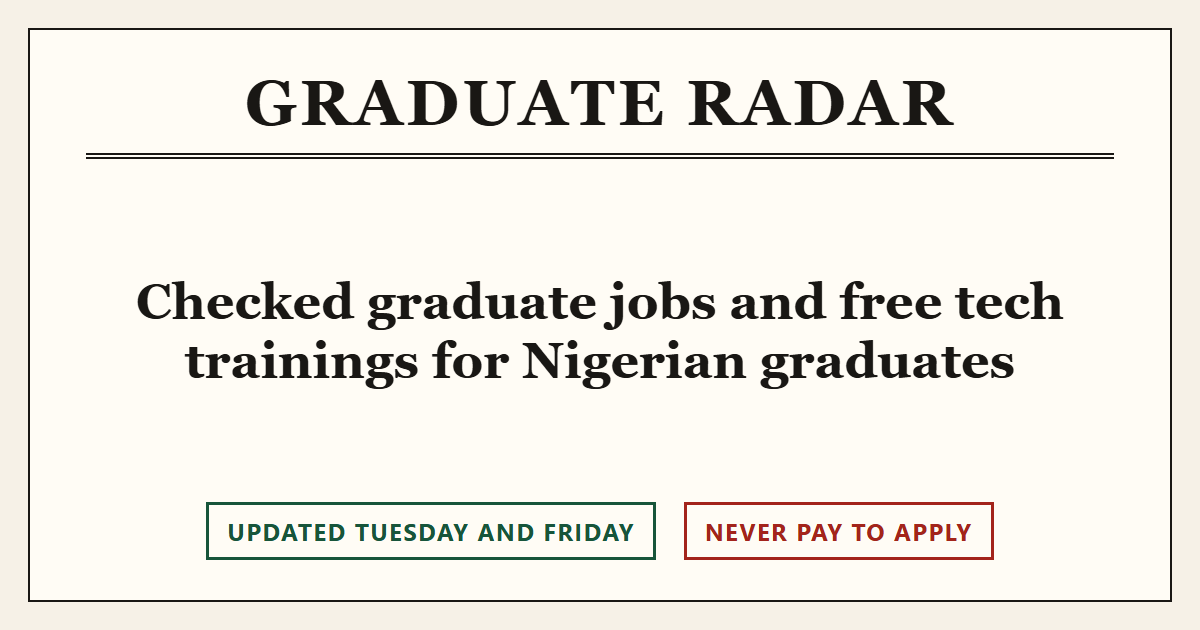
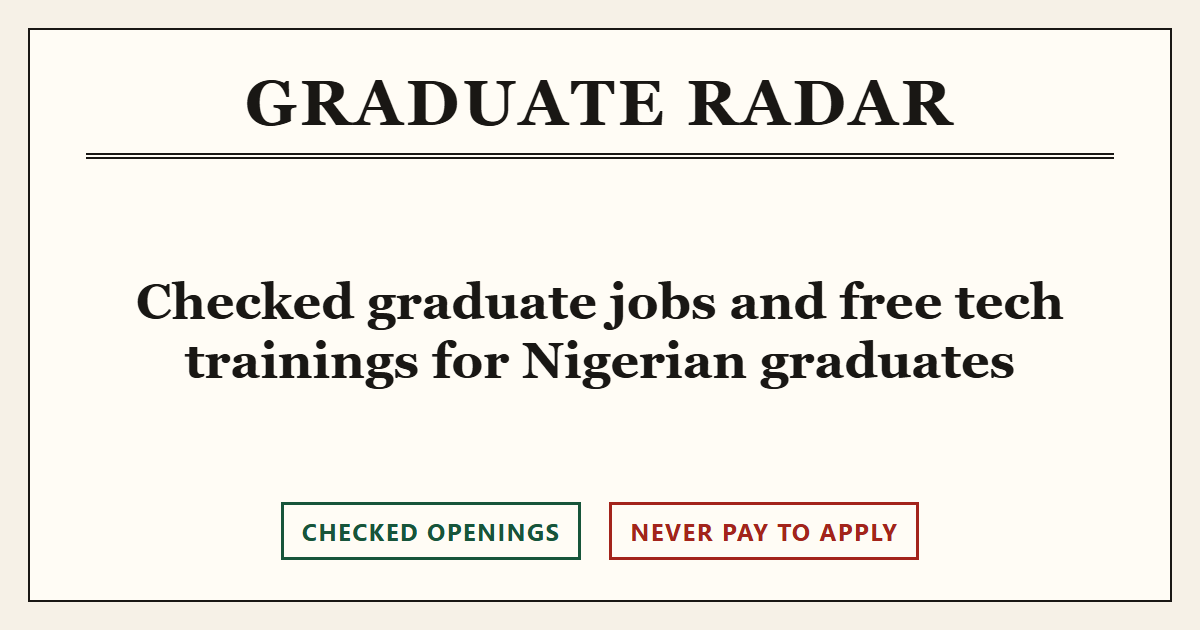
feat(copy): remove the update schedule, add the schedule check (GR-011)

Changed region(s): [[0.1542, 0.7841, 0.8325, 0.9048]]

diff --git a/tests/check-schedule.test.ts b/tests/check-schedule.test.ts
@@ -1,0 +1,89 @@
+// GR-011: the site and its docs must not promise an update schedule (owner decision,
+// 15 Nov 2026), so a move to a daily sweep needs no copy change.
+import { mkdirSync, mkdtempSync, rmSync, writeFileSync } from 'node:fs';
+import { tmpdir } from 'node:os';
+import { join } from 'node:path';
+import { afterEach, beforeEach, describe, expect, it } from 'vitest';
+import { findScheduleClaims } from '../scripts/check-schedule.ts';
+
+let root: string;
+
+beforeEach(() => {
+  root = mkdtempSync(join(tmpdir(), 'schedule-check-'));
+});
+
+afterEach(() => {
+  rmSync(root, { recursive: true, force: true });
+});
+
+function file(path: string, text: string) {
+  const full = join(root, path);
+  mkdirSync(join(full, '..'), { recursive: true });
+  writeFileSync(full, text);
+}
+
+describe('findScheduleClaims: what must be refused', () => {
+  it('fails "Updated every Tuesday and Friday" in a component, with file and line', () => {
+    file('src/components/Hero.astro', '<p>\n  Updated every Tuesday and Friday.\n</p>');
+    expect(findScheduleClaims(root)).toEqual([{ file: 'src/components/Hero.astro', line: 2 }]);
+  });
+
+  it('fails "Tue/Fri" and "Tue and Fri" in the README', () => {
+    file('README.md', 'Claude sweep (Tue/Fri 05:41)\nRuns Tue and Fri.');
+    expect(findScheduleClaims(root)).toEqual([
+      { file: 'README.md', line: 1 },
+      { file: 'README.md', line: 2 },
+    ]);
+  });
+
+  it('fails "twice a week" in the spec', () => {
+    file('docs/build-spec.md', 'The sheet changes twice a week.');
+    expect(findScheduleClaims(root)).toEqual([{ file: 'docs/build-spec.md', line: 1 }]);
+  });
+
+  it('fails a schedule line inside a launch draft', () => {
+    file('docs/launch.md', '```text\nNew openings are added every Friday.\n```');
+    expect(findScheduleClaims(root)).toEqual([{ file: 'docs/launch.md', line: 2 }]);
+  });
+
+  it('fails a claim split across a line break in a component', () => {
+    file('src/components/EmptyState.astro', 'We add openings every Tuesday and\n    Friday.');
+    expect(findScheduleClaims(root)).toEqual([
+      { file: 'src/components/EmptyState.astro', line: 1 },
+    ]);
+  });
+
+  it('fails the stamp on the sharing image source', () => {
+    file('scripts/og/og.html', '<span class="stamp">Updated Tuesday and Friday</span>');
+    expect(findScheduleClaims(root)).toEqual([{ file: 'scripts/og/og.html', line: 1 }]);
+  });
+});
+
+describe('findScheduleClaims: what is allowed', () => {
+  it('does not fail a weekday on its own', () => {
+    file('src/pages/about.astro', '<p>Interviews hold on Friday. Sat and fried rice.</p>');
+    expect(findScheduleClaims(root)).toEqual([]);
+  });
+
+  it('skips history and other docs: done.md, BACKLOG.md and docs not in scope', () => {
+    file('docs/done.md', 'Updated every Tuesday and Friday.');
+    file('BACKLOG.md', 'Updated every Tuesday and Friday.');
+    file('docs/infra-capacity.md', 'The sweep runs twice a week.');
+    expect(findScheduleClaims(root)).toEqual([]);
+  });
+
+  it('passes copy with no schedule', () => {
+    file(
+      'src/components/Footer.astro',
+      '<p>We add new openings and mark closed ones as we find them.</p>',
+    );
+    file('README.md', 'Claude sweep (scheduled) -> Google Sheet');
+    expect(findScheduleClaims(root)).toEqual([]);
+  });
+});
+
+describe('the repo', () => {
+  it('has no schedule claim in the site, the launch drafts, README or spec', () => {
+    expect(findScheduleClaims(join(import.meta.dirname, '..'))).toEqual([]);
+  });
+});

diff --git a/scripts/check-schedule.ts b/scripts/check-schedule.ts
@@ -1,0 +1,66 @@
+// Fails when the site or its docs promise an update schedule ("every Tuesday", "Tue/Fri",
+// "twice a week"). Owner decision (15 Nov 2026): no schedule anywhere, so the sweep can
+// move to daily without a copy change. A weekday on its own is fine.
+// Scans repo copy only, never dist/: listing notes from the sheet may name a day and
+// must never fail a daily build.
+// Run: node scripts/check-schedule.ts   (part of npm run lint)
+import { existsSync, lstatSync, readdirSync, readFileSync } from 'node:fs';
+import { join, relative, sep } from 'node:path';
+import { fileURLToPath } from 'node:url';
+
+export interface ScheduleFinding {
+  file: string;
+  line: number;
+}
+
+const SCAN_DIRS = ['src', 'scripts/og', 'public'];
+const SCAN_FILES = ['README.md', 'docs/build-spec.md', 'docs/launch.md'];
+const TEXT_EXT = /\.(astro|ts|tsx|js|mjs|json|md|css|html|txt|xml|svg)$/i;
+
+const DAY =
+  '(?:monday|mon|tuesday|tues|tue|wednesday|wed|thursday|thurs|thu|friday|fri|saturday|sat|sunday|sun)';
+const CLAIMS = [
+  new RegExp(`\\bevery\\s+${DAY}\\b`, 'gi'),
+  new RegExp(`\\b${DAY}s?\\s*(?:and|&|/)\\s*${DAY}s?\\b`, 'gi'),
+  /\btwice\s+(?:a\s+week|weekly)\b/gi,
+];
+
+function walk(dir: string, out: string[]) {
+  if (!existsSync(dir)) return;
+  for (const name of readdirSync(dir)) {
+    const full = join(dir, name);
+    const st = lstatSync(full);
+    if (st.isDirectory()) walk(full, out);
+    else if (st.isFile() && TEXT_EXT.test(name)) out.push(full);
+  }
+}
+
+export function findScheduleClaims(root: string): ScheduleFinding[] {
+  const files: string[] = [];
+  for (const dir of SCAN_DIRS) walk(join(root, dir), files);
+  for (const f of SCAN_FILES) if (existsSync(join(root, f))) files.push(join(root, f));
+
+  const findings: ScheduleFinding[] = [];
+  for (const full of files) {
+    const rel = relative(root, full).split(sep).join('/');
+    const text = readFileSync(full, 'utf8');
+    const lines = new Set<number>();
+    // Whole-file matching, so a claim wrapped over two lines is still caught; the
+    // finding names the line where it starts.
+    for (const re of CLAIMS)
+      for (const m of text.matchAll(re)) lines.add(text.slice(0, m.index).split('\n').length);
+    for (const line of [...lines].sort((a, b) => a - b)) findings.push({ file: rel, line });
+  }
+  return findings.sort((a, b) => a.file.localeCompare(b.file) || a.line - b.line);
+}
+
+if (process.argv[1] && fileURLToPath(import.meta.url) === process.argv[1]) {
+  const findings = findScheduleClaims(process.cwd());
+  for (const f of findings)
+    console.error(`${f.file}:${f.line}: update schedule claim (owner decision: no schedule)`);
+  if (findings.length > 0) {
+    console.error(`Schedule check failed: ${findings.length} finding(s).`);
+    process.exit(1);
+  }
+  console.log('Schedule check passed.');
+}

diff --git a/scripts/og/og.html b/scripts/og/og.html
@@ -71,7 +71,7 @@
       <div class="mast">Graduate Radar</div>
       <p class="head">Checked graduate jobs and free tech trainings for Nigerian graduates</p>
       <div class="stamps">
-        <span class="stamp green">Updated Tuesday and Friday</span>
+        <span class="stamp green">Checked openings</span>
         <span class="stamp red">Never pay to apply</span>
       </div>
     </div>

diff --git a/docs/build-spec.md b/docs/build-spec.md
@@ -16,7 +16,7 @@ Graduate Radar is a free, checked directory of opportunities for Nigerian gradua
 It already runs on a Google Sheet that is kept up to date automatically:
 
 - **Spreadsheet ID:** `1dRl1vgvRixtVZJIkXbd6iNFpeBjgzKkaz1L-tp8k6yo` (time zone Africa/Lagos)
-- **A Claude scheduled task ("Graduate Radar sweep")** runs every Tuesday and Friday at 05:41 Lagos time. It finds new openings, checks them for scams, writes them to the sheet, marks closed ones, and logs each run.
+- **A Claude scheduled task ("Graduate Radar sweep")** runs on a schedule (set in the task itself, not repeated here). It finds new openings, checks them for scams, writes them to the sheet, marks closed ones, and logs each run.
 - **Public tabs:** `Start here`, `Jobs`, `Trainings & Scholarships`.
 - **Private tabs (must never reach the website):** `Postgrad Scholarships`, `Calendar`, `Review`, `Sources`, `Settings`, `Log`.
 
@@ -50,7 +50,7 @@ The sheet is also published with Google's "Publish to web", but that view is sta
 ## 4. Architecture
 
 ```
-Claude sweep (Tue/Fri 05:41) ──► Google Sheet (database, unchanged)
+Claude sweep (scheduled)     ──► Google Sheet (database, unchanged)
                                      │
                                      ▼
                  Apps Script web app "feed"  ── JSON of public listings only
@@ -74,7 +74,7 @@ Claude sweep (Tue/Fri 05:41) ──► Google Sheet (database, unchanged)
 | Styling | Plain CSS with design tokens (CSS custom properties), scoped Astro component styles | Tokens make the design system portable to future products; no build-time CSS framework to learn or upgrade. | Tailwind: fine, but tokens-in-CSS keeps the design system explicit and framework-free. If Claude Code strongly prefers Tailwind, map tokens into its theme instead. |
 | Interactivity | Vanilla TypeScript (or Preact island if it clearly simplifies) for filters; Fuse.js for fuzzy search | A few hundred rows, so filtering in the browser is instant and needs no server. | Server search (Algolia etc.): overkill, adds cost and accounts. |
 | Hosting | Cloudflare Pages (free plan), on a `*.pages.dev` address for launch | Free with unmetered bandwidth, global CDN including a Lagos location, deploy hooks, preview deploys per branch. Builds count against the account's 500 builds a month, shared with Aimery (see `docs/infra-capacity.md`). | Workers static assets: third-party sources say Cloudflare now points new projects there, but it uses `*.workers.dev` and we found no documented deploy hook for Workers Builds. A plain static site can move later by hand. Vercel/Netlify: also fine; Cloudflare chosen for bandwidth terms and Nigeria latency. |
-| Freshness | Daily rebuild via deploy hook, plus deadline logic in the browser | The sheet changes twice a week, but deadlines pass daily. A daily 07:30 rebuild catches sweep results and drops expired listings; browser-side date checks keep "Closing soon"/"Closed" correct even between builds. | Fetching the feed live on every visit: slower first paint, depends on Apps Script uptime and quotas, worse SEO. |
+| Freshness | Daily rebuild via deploy hook, plus deadline logic in the browser | The sheet changes when the sweep runs, but deadlines pass daily. A daily 07:30 rebuild catches sweep results and drops expired listings; browser-side date checks keep "Closing soon"/"Closed" correct even between builds. | Fetching the feed live on every visit: slower first paint, depends on Apps Script uptime and quotas, worse SEO. |
 | Analytics | Cloudflare Web Analytics only (page views, cookie-free) | Simple and low-maintenance; same Cloudflare account, nothing new to run; no cookies, so the privacy note stays one line. Detail-page views show which listings people open. | Mixpanel: tracks Apply clicks, filters and shares, but the browser SDK eats much of the JS budget and is one more service to maintain. GA4: heavier script, cookie banner concerns. |
 | Code hosting | Public GitHub repo `heisX3N0/graduate-radar-web` | Cloudflare Pages builds from GitHub automatically. Public repos use no Actions minutes (the account's 2,000 a month are shared and near 70%). Everything in the repo is already public data; the feed URL is a Cloudflare build setting, never committed. | Private repo: CI would draw on the shared Actions minutes. |
 
@@ -177,11 +177,11 @@ Note: the sheet is on a gmail.com account (owner, 15 Nov 2026), so no Workspace 
 
 | Route | Purpose | Key content |
 |---|---|---|
-| `/` | Jobs home | Short hero (one line: what this is, "updated every Tue & Fri", last updated date). "Closing this week" strip. Search + filters. Job cards. Link to trainings. |
+| `/` | Jobs home | Short hero (one line: what this is, and the last updated date; no update schedule, owner decision 15 Nov 2026). "Closing this week" strip. Search + filters. Job cards. Link to trainings. |
 | `/trainings` | Trainings home | Same pattern for trainings. Filters: track, cost, format, job placement, closing soon. |
 | `/jobs/[slug]` | Job detail | Title, organisation, type, location/remote, deadline (with "X days left"), eligibility broken into a checklist (degree class, max age, NYSC, other text), notes, **Apply** button, "Verified on" date, "Never pay to apply" note, Share to WhatsApp button, back link. Closed listings show a clear "This opening has closed" banner, no Apply button, and links to similar open listings. |
 | `/trainings/[slug]` | Training detail | Same pattern: provider, track, cost, format, duration, job placement, eligibility, deadline, Apply. |
-| `/about` | Trust page | Who runs it, how listings are found and checked, update schedule, "we don't hire or process applications". |
+| `/about` | Trust page | Who runs it, how listings are found and checked, "we don't hire or process applications". |
 | `/stay-safe` | Scam guidance | Never pay to apply; red flags (Gmail-only recruiters, fees, too-good pay); how to verify an employer; what to do if asked for money. |
 | `/design` | Design system showcase (not linked in nav) | Tokens, type scale, every component in every state. |
 | `404` | Friendly not-found | Search box + link home. |

diff --git a/README.md b/README.md
@@ -7,7 +7,7 @@ Status: scaffold (GR-001), the Apps Script feed (GR-002), the data layer (GR-003
 ## How data flows
 
 ```
-Claude sweep (Tue and Fri 05:41 Lagos) -> Google Sheet (database)
+Claude sweep (scheduled)                -> Google Sheet (database)
 Apps Script web app (feed)              -> JSON of public listing fields only
 Daily 07:30 trigger                     -> Cloudflare Pages deploy hook
 Astro static build                      -> Cloudflare Pages (*.pages.dev)
@@ -58,7 +58,7 @@ The server renders every open listing (closed and past-deadline listings are nev
 ## Detail pages, SEO and sharing
 
 - **Pages:** `/jobs/<slug>` and `/trainings/<slug>` for every listing in the feed, including Closed ones checked in the last 60 days, so a shared link to a closed listing shows "This opening has closed" (no Apply button, links to similar open listings) instead of a 404. After 60 days the listing leaves the feed and its address gets the 404 page. Also `/about`, `/stay-safe` and `404`.
-- **Every page:** unique title and description, canonical link, Open Graph and Twitter tags with absolute URLs (from `SITE_URL`, default `https://graduate-radar.pages.dev`; `src/lib/site.ts`), and one sharing image, `public/og-default.png` (1200 x 630, 50.5 KB). Edit `scripts/og/og.html` and run `npm run og` to regenerate it (needs Edge or Chrome installed).
+- **Every page:** unique title and description, canonical link, Open Graph and Twitter tags with absolute URLs (from `SITE_URL`, default `https://graduate-radar.pages.dev`; `src/lib/site.ts`), and one sharing image, `public/og-default.png` (1200 x 630, 49.8 KB). Edit `scripts/og/og.html` and run `npm run og` to regenerate it (needs Edge or Chrome installed).
 - **JobPosting data** (schema.org JSON-LD) on open job pages only: never on closed or past-deadline listings, never on trainings. `validThrough` comes from the deadline when it is a date; remote jobs are marked telecommute, open to applicants in Nigeria. Google may still rank listings low because applications happen on the employer's site.
 - **Sharing:** the WhatsApp button opens `https://wa.me/?text=` with "title · organisation · Closes 27 Nov · page URL" ("Closed" for a past deadline).
 - **sitemap.xml** lists the main pages and every open listing; **robots.txt** allows everything and points to the sitemap. `/design` and `404` carry `noindex`.
@@ -150,7 +150,7 @@ npm test
 npm run build
 ```
 
-`npm run lint` runs ESLint, Prettier (check only) and the dash check (`scripts/check-dashes.ts`), which fails on any em or en dash in source, docs or root files, and the style check (`scripts/check-styles.ts`), which fails on any hard-coded colour, size or spacing in a component or layout style (use `src/styles/tokens.css`).
+`npm run lint` runs ESLint, Prettier (check only) and the dash check (`scripts/check-dashes.ts`), which fails on any em or en dash in source, docs or root files, and the style check (`scripts/check-styles.ts`), which fails on any hard-coded colour, size or spacing in a component or layout style (use `src/styles/tokens.css`), and the schedule check (`scripts/check-schedule.ts`), which fails on any claim about which days or how often the list is updated (patterns in the script) in the site, the sharing image, the launch drafts, this README or the spec. The site promises no schedule (owner decision, 15 Nov 2026), so the sweep can change frequency without a copy change. It never scans `dist/`, because listing notes from the sheet may name a day.
 
 ## Environment variables
 

diff --git a/CLAUDE.md b/CLAUDE.md
@@ -12,7 +12,7 @@ The owner's global rules (`~/.claude/CLAUDE.md`, version 2026-10-22) apply in fu
 ## Gates (run all five before every commit)
 
 ```bash
-npm run lint    # eslint, prettier --check, dash check, style check (tokens only)
+npm run lint    # eslint, prettier --check, dash check, style check (tokens only), schedule check
 npm run check   # astro check (types)
 npm test        # vitest
 npm run build   # astro build, then the dist scan and the page weight budgets
@@ -40,7 +40,7 @@ No automatic PR review on this repo. Run `/code-review` on the diff before openi
 - Mobile first, low data: keep JS minimal; prefer static HTML; respect the budgets in spec section 6.6.
 - Use design tokens from `src/styles/tokens.css`; no hard-coded colours, sizes or spacing in components.
 - Trust copy matters: keep "Never pay to apply" on every detail page.
-- Plain, warm British/Nigerian English in UI copy; no em or en dashes anywhere (the dash check enforces this).
+- Plain, warm British/Nigerian English in UI copy; no em or en dashes anywhere (the dash check enforces this). No update schedule in copy or docs (the schedule check enforces this).
 - Before finishing a task: run the gates and check the page at 360 px width.
 
 ## Infrastructure cost

diff --git a/docs/launch.md b/docs/launch.md
@@ -17,7 +17,7 @@ It has search, filters (type, field, location, degree class) and a page for ever
 Trainings and scholarships: https://graduate-radar.pages.dev/trainings
 
 How it works
-New openings are added every Tuesday and Friday morning, and closed ones are marked.
+We add new openings and mark closed ones as we find them.
 Every listing links to the employer's or provider's own page wherever possible.
 This sheet is the list behind the website. The website updates from it every morning.
 
@@ -41,8 +41,6 @@ What's new:
 • Search, and filter by type, field, location and degree class
 • Every opening has its own page with the deadline and the Apply link
 • Works well on phones and uses little data
-
-New openings are added every Tuesday and Friday.
 
 Never pay to apply. If anyone asks you for a fee, stop.
 
